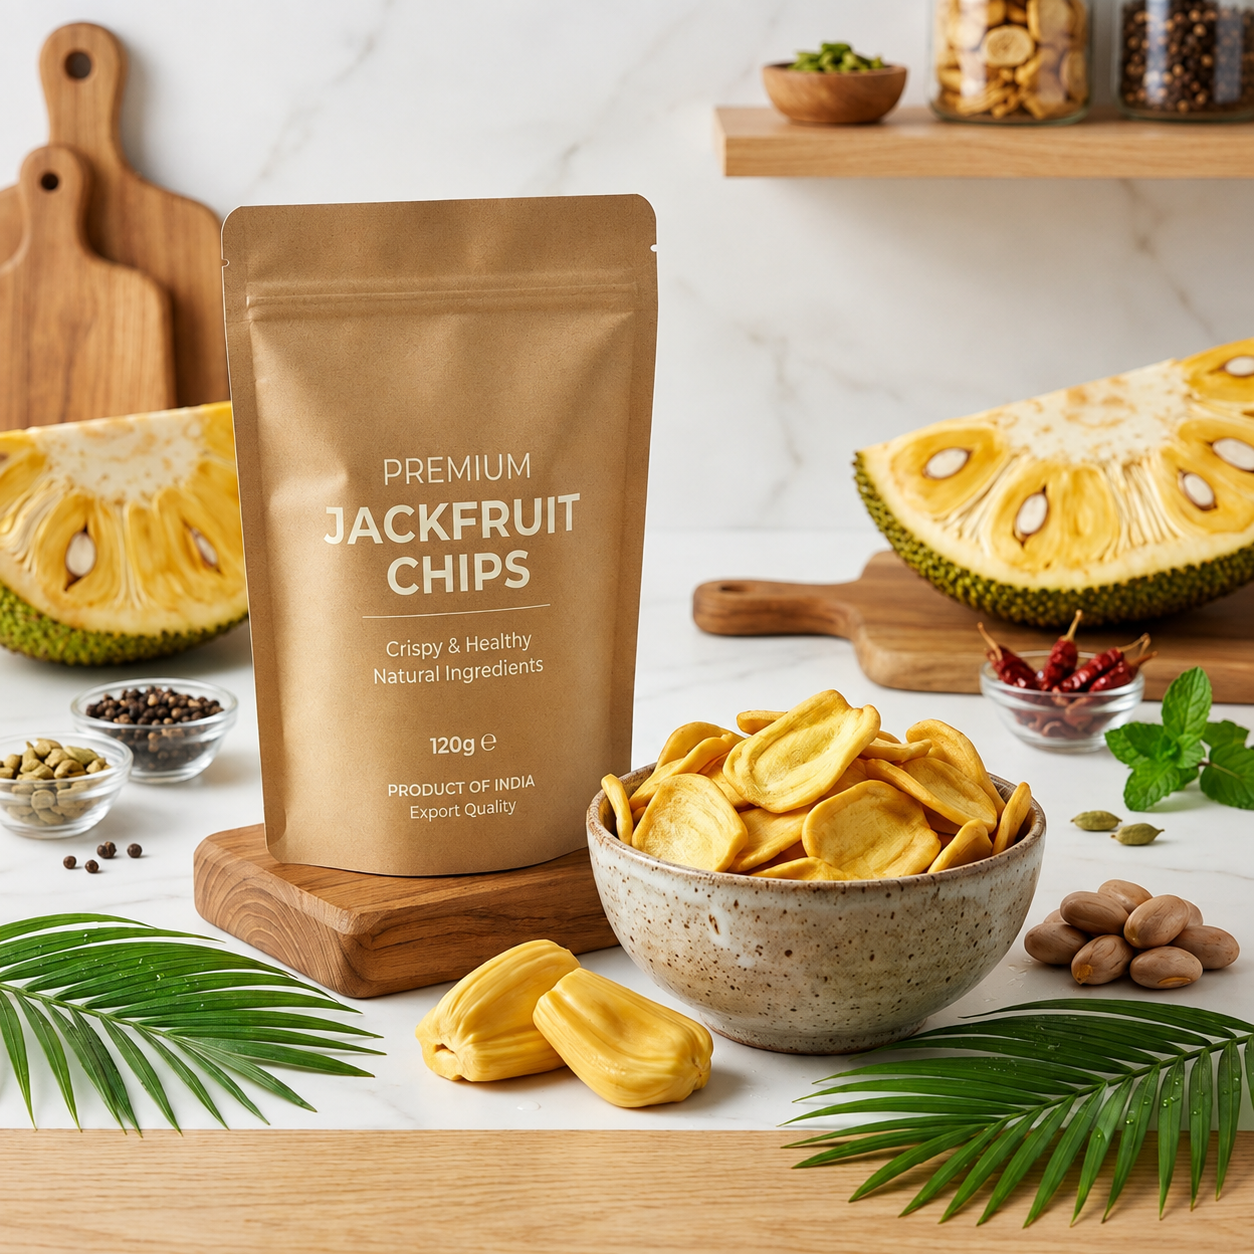
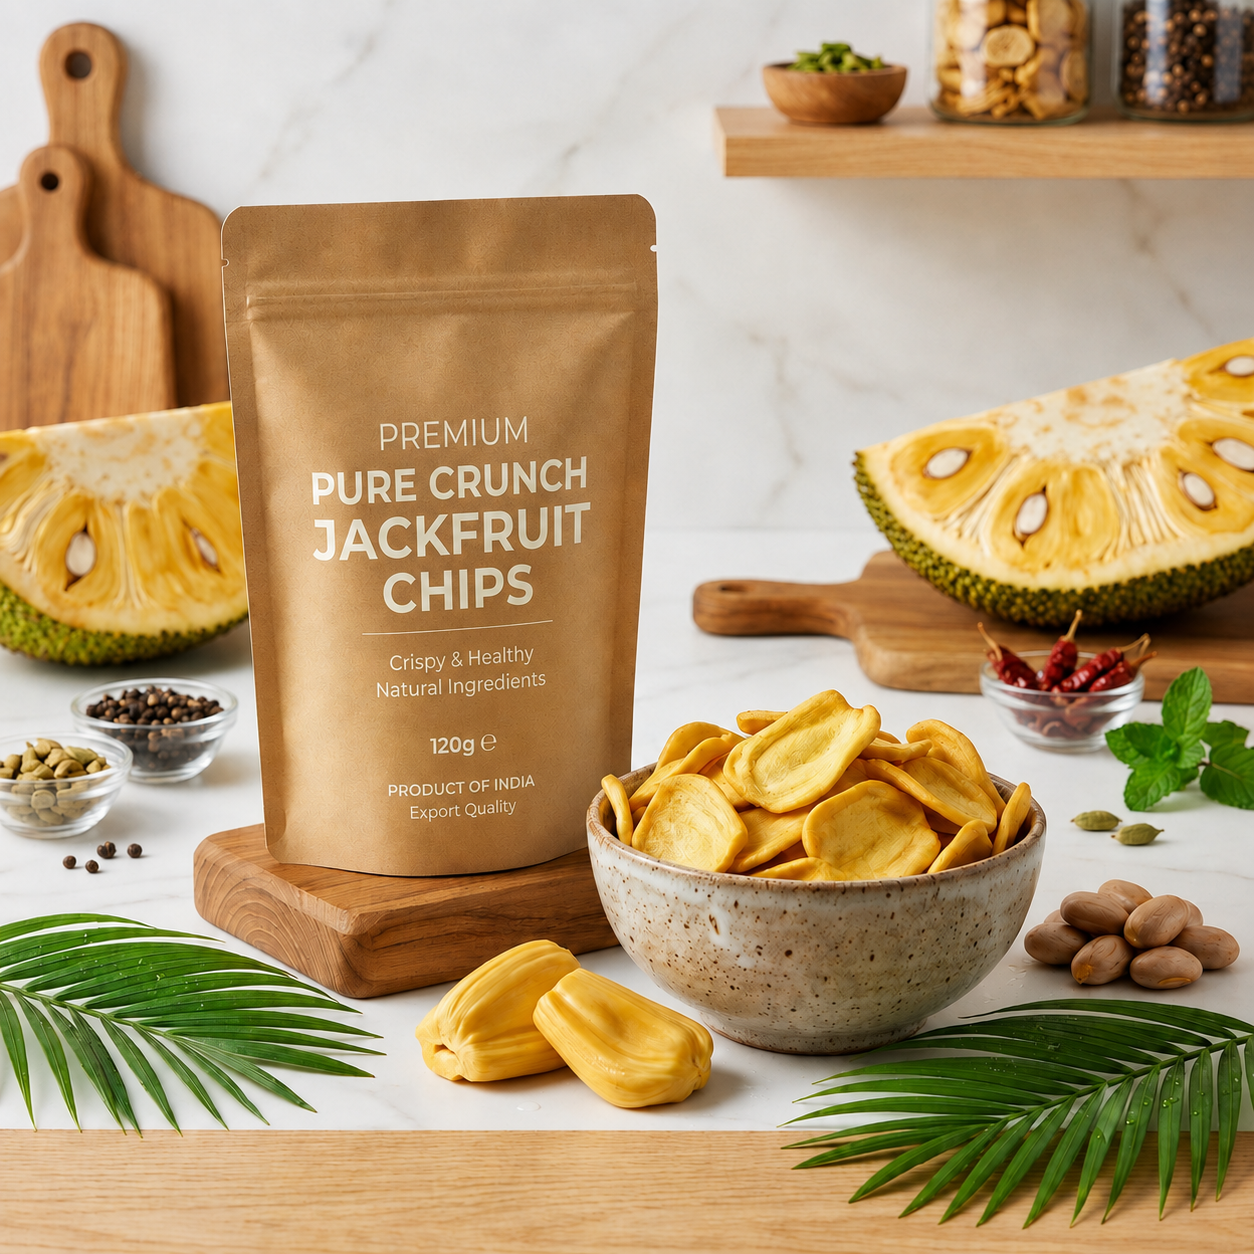
Image changes

diff --git a/src/app/page.tsx b/src/app/page.tsx
@@ -1,6 +1,6 @@
 'use client';
 
-import { useState } from 'react';
+import { useState, useEffect } from 'react';
 import Link from 'next/link';
 import { motion, AnimatePresence } from 'framer-motion';
 import {
@@ -10,6 +10,7 @@ import {
 } from 'lucide-react';
 import FadeIn from '@/components/FadeIn';
 import { products } from '@/data/products';
+import { ensureInfographicImages } from '@/app/actions';
 
 // Core pillars (floating glass cards)
 const corePillars = [
@@ -123,7 +124,7 @@ const internationalFlavors = [
 const futureProducts = [
   {
     id: 'ice-cream',
-    title: 'Next-Gen Ice Cream',
+    title: 'Flavorette, The Malt edition icecream',
     tagline: 'Model 1, 2 & 3 Servings',
     desc: 'Anatomically sculpted fruit gelato shells encasing fresh berry sorbets, ultra-viscous shake layers separating rich pistachio creams, and interactive painter\'s palette plating concepts.',
     image: '/next_gen_ice (2).png',
@@ -132,7 +133,7 @@ const futureProducts = [
   },
   {
     id: 'soda',
-    title: 'Functional Soda',
+    title: 'The Gulp , Pop ( fruit flavoured soda )',
     tagline: 'Prebiotic & Probiotic Soda',
     desc: 'Guilt-free alternative to traditional HFCS soft drinks. Formulated with gut-microbiome prebiotic fibers, probiotic proteins, and organic botanical caffeine from tea sources.',
     image: '/Functional Soda.png',
@@ -141,7 +142,7 @@ const futureProducts = [
   },
   {
     id: 'water',
-    title: 'Enhanced Longevity Water',
+    title: 'Enhance longevity ( Vit+ Min) water',
     tagline: 'Bioactive Synergy Hydration',
     desc: 'Advanced water-soluble delivery mechanism infused with scientifically validated synergistic pairings (Vitamin D3 + Magnesium + K2) to optimize cellular repair and systemic health span.',
     image: '/water (2).png',
@@ -150,7 +151,7 @@ const futureProducts = [
   },
   {
     id: 'jackfruit-chips',
-    title: 'Jackfruit Chips',
+    title: 'pure crunch Jackfruit chips.',
     tagline: 'Vacuum-Cooked Sustainable Snack',
     desc: 'Crispy vacuum-cooked jackfruit slices that minimize agricultural post-harvest waste and provide a healthier, low-fat alternative to traditional potato chips across 190 nations.',
     image: '/jack_chips (2).png',
@@ -184,6 +185,11 @@ const testimonials = [
 export default function Home() {
   const [activeTestimonialIdx, setActiveTestimonialIdx] = useState(0);
   const [isReportModalOpen, setIsReportModalOpen] = useState(false);
+  const [selectedInfographic, setSelectedInfographic] = useState<{ title: string; image: string } | null>(null);
+
+  useEffect(() => {
+    ensureInfographicImages();
+  }, []);
 
   const makhanaProduct = products.find(p => p.id === 'makhana');
 
@@ -304,6 +310,107 @@ export default function Home() {
         </div>
       </section>
 
+      {/* BRAND & FMCG FRAMEWORK INFOGRAPHICS SECTION */}
+      <section className="py-20 lg:py-24 bg-[#FAF9F6] px-6 border-b border-brand-cream-dark relative">
+        <div className="max-w-7xl mx-auto">
+          <div className="text-center max-w-3xl mx-auto mb-14">
+            <FadeIn>
+              <span className="font-sans text-xs uppercase tracking-[0.25em] font-extrabold text-brand-gold">
+                Strategic Foundation
+              </span>
+              <h2 className="text-4xl sm:text-5xl md:text-6xl font-serif text-brand-green mt-3 mb-6 leading-tight">
+                Frameworks Driving Our Growth
+              </h2>
+              <p className="font-sans text-sm md:text-base text-brand-charcoal/75 leading-relaxed">
+                At Dominion Ventures, our product engineering and brand execution follow systematic FMCG principles and end-to-end consumer journey strategies.
+              </p>
+              <div className="h-[2px] w-20 bg-brand-gold mx-auto mt-6" />
+            </FadeIn>
+          </div>
+
+          {/* 2-Column Infographics Grid */}
+          <div className="grid grid-cols-1 lg:grid-cols-2 gap-10 items-stretch">
+            {/* Framework 1: Product in FMCG */}
+            <FadeIn delay={0.1}>
+              <div className="bg-white rounded-3xl p-6 sm:p-8 border border-brand-cream-dark shadow-sm hover:shadow-premium-lg transition-all duration-500 flex flex-col justify-between h-full group">
+                <div>
+                  <div className="flex justify-between items-center mb-4">
+                    <span className="inline-block bg-brand-green/10 text-brand-green border border-brand-green/20 text-[10px] font-extrabold uppercase tracking-widest px-3 py-1 rounded-full">
+                      FMCG Strategy
+                    </span>
+                    <span className="text-[10px] text-brand-gold font-sans uppercase tracking-wider font-extrabold">
+                      Click to Enlarge
+                    </span>
+                  </div>
+
+                  <h3 className="font-serif text-2xl sm:text-3xl text-brand-green font-medium mb-3">
+                    Product In FMCG
+                  </h3>
+                  <p className="font-sans text-xs text-brand-charcoal/70 leading-relaxed mb-6">
+                    Building products people trust and love every day — encompassing Strategy, Product Attributes, Lifecycle, Packaging & Labelling, Positioning, and Supply Chain Resilience.
+                  </p>
+
+                  <div 
+                    onClick={() => setSelectedInfographic({ title: 'Product In FMCG Framework', image: '/fmcg_product_framework.jpg' })}
+                    className="relative aspect-[3/4] w-full rounded-2xl overflow-hidden border border-brand-cream-dark bg-brand-cream/30 shadow-inner cursor-pointer group-hover:border-brand-gold/50 transition-all duration-500"
+                  >
+                    <img
+                      src="/fmcg_product_framework.jpg"
+                      alt="Product in FMCG Infographic"
+                      className="w-full h-full object-contain p-2 group-hover:scale-105 transition-transform duration-700"
+                    />
+                    <div className="absolute inset-0 bg-brand-green/10 opacity-0 group-hover:opacity-100 transition-opacity flex items-center justify-center pointer-events-none">
+                      <span className="bg-brand-green text-brand-gold text-xs font-sans font-bold uppercase tracking-widest px-4 py-2 rounded-full shadow-lg">
+                        View Full Screen
+                      </span>
+                    </div>
+                  </div>
+                </div>
+              </div>
+            </FadeIn>
+
+            {/* Framework 2: Running a Brand */}
+            <FadeIn delay={0.2}>
+              <div className="bg-white rounded-3xl p-6 sm:p-8 border border-brand-cream-dark shadow-sm hover:shadow-premium-lg transition-all duration-500 flex flex-col justify-between h-full group">
+                <div>
+                  <div className="flex justify-between items-center mb-4">
+                    <span className="inline-block bg-brand-gold/15 text-brand-gold border border-brand-gold/30 text-[10px] font-extrabold uppercase tracking-widest px-3 py-1 rounded-full">
+                      Brand Operations
+                    </span>
+                    <span className="text-[10px] text-brand-gold font-sans uppercase tracking-wider font-extrabold">
+                      Click to Enlarge
+                    </span>
+                  </div>
+
+                  <h3 className="font-serif text-2xl sm:text-3xl text-brand-green font-medium mb-3">
+                    Running A Brand
+                  </h3>
+                  <p className="font-sans text-xs text-brand-charcoal/70 leading-relaxed mb-6">
+                    Comprehensive operational ecosystem — connecting Brand Story, Brand Promise, Consumer Knowledge, Product Innovation, Operations, Purchase Moments, Experience & Culture.
+                  </p>
+
+                  <div 
+                    onClick={() => setSelectedInfographic({ title: 'Running A Brand Framework', image: '/running_a_brand_framework.jpg' })}
+                    className="relative aspect-[3/4] w-full rounded-2xl overflow-hidden border border-brand-cream-dark bg-brand-cream/30 shadow-inner cursor-pointer group-hover:border-brand-gold/50 transition-all duration-500"
+                  >
+                    <img
+                      src="/running_a_brand_framework.jpg"
+                      alt="Running A Brand Infographic"
+                      className="w-full h-full object-contain p-2 group-hover:scale-105 transition-transform duration-700"
+                    />
+                    <div className="absolute inset-0 bg-brand-green/10 opacity-0 group-hover:opacity-100 transition-opacity flex items-center justify-center pointer-events-none">
+                      <span className="bg-brand-green text-brand-gold text-xs font-sans font-bold uppercase tracking-widest px-4 py-2 rounded-full shadow-lg">
+                        View Full Screen
+                      </span>
+                    </div>
+                  </div>
+                </div>
+              </div>
+            </FadeIn>
+          </div>
+        </div>
+      </section>
+
       {/* PRODUCT PORTFOLIO SECTION */}
       <section id="products" className="py-16 lg:py-20 bg-white px-6 border-b border-brand-cream-dark relative">
         <div className="max-w-7xl mx-auto">
@@ -341,7 +448,7 @@ export default function Home() {
                     </div>
 
                     <h3 className="font-serif text-4xl md:text-5xl text-brand-gold font-medium leading-[1.05]">
-                      Makhana
+                      Nu trait Makhana
                     </h3>
                     <p className="font-sans text-xs uppercase tracking-widest text-brand-gold/80 font-bold -mt-3">
                       Signature Superfood
@@ -789,6 +896,36 @@ export default function Home() {
             <div className="bg-brand-cream-dark p-4 md:p-6 border-t border-brand-cream-dark flex flex-col sm:flex-row gap-3 justify-between items-center text-[10px] text-brand-charcoal/50 font-sans font-bold uppercase tracking-widest flex-shrink-0">
               <span>Dominion Ventures Quality Assurance</span>
               <span>Report ID: DV-MX-2026-A</span>
+            </div>
+          </div>
+        </div>
+      )}
+
+      {/* INFOGRAPHIC LIGHTBOX MODAL */}
+      {selectedInfographic && (
+        <div className="fixed inset-0 z-50 flex items-center justify-center p-4 md:p-8 animate-fade-in">
+          <div
+            className="absolute inset-0 bg-black/80 backdrop-blur-md transition-opacity duration-300"
+            onClick={() => setSelectedInfographic(null)}
+          />
+          <div className="bg-[#FAF9F6] border border-brand-gold/30 rounded-[2rem] w-full max-w-4xl max-h-[90vh] overflow-hidden shadow-2xl relative z-10 flex flex-col">
+            <div className="bg-brand-green text-brand-cream p-5 md:p-6 flex justify-between items-center shrink-0">
+              <h3 className="font-serif text-2xl text-brand-gold font-medium">
+                {selectedInfographic.title}
+              </h3>
+              <button
+                onClick={() => setSelectedInfographic(null)}
+                className="text-brand-cream/80 hover:text-brand-gold font-sans text-xs tracking-wider uppercase border border-brand-cream/20 rounded-full px-4 py-1.5 bg-white/10 transition-colors cursor-pointer"
+              >
+                Close
+              </button>
+            </div>
+            <div className="p-4 md:p-6 overflow-y-auto flex items-center justify-center bg-black/5">
+              <img
+                src={selectedInfographic.image}
+                alt={selectedInfographic.title}
+                className="max-h-[75vh] w-auto object-contain rounded-xl shadow-lg"
+              />
             </div>
           </div>
         </div>

diff --git a/src/data/products.ts b/src/data/products.ts
@@ -36,7 +36,7 @@ export interface Product {
 export const products: Product[] = [
   {
     id: "makhana",
-    name: "Makhana",
+    name: "Nu trait Makhana",
     category: "Traditional",
     description: "Our flagship superfood collection. Sourced from agricultural heartlands, slow dry-roasted, and infused with premium regional spices.",
     nutritionalHighlights: ["100% Traceable", "Jumbo Kernels", "Gluten Free", "High Protein"],
@@ -106,7 +106,7 @@ export const products: Product[] = [
   },
   {
     id: "ice-cream",
-    name: "Next-Gen Ice Cream",
+    name: "Flavorette, The Malt edition icecream",
     category: "International",
     description: "Creamy, premium functional desserts featuring sculpted anatomical fruit reproduction and interactive palettes.",
     nutritionalHighlights: ["Zero Refined Sugar", "Anatomically Sculpted", "Plant Protein Options", "Zero Waste Portions"],
@@ -130,7 +130,7 @@ export const products: Product[] = [
               ["Strawberry / Raspberry", "Fresh Berry Sorbet", "Matte red with seed pitting detail", "Tart, sweet, aromatic berry blend"],
               ["Blackberry / Grape", "Concord Grape / Acai Gelato", "Soft purple velvet spray finish", "Rich, deep wine-like fruit notes"],
               ["Mango / Citrus", "Alphonso Mango Gelato", "Vibrant glossy yellow-orange shell", "Tropical, creamy citrus profile"],
-              ["Blueberry / Plum", "Wild Blueberry Gelato", "Pastel indigo shell coating", "Subtle sweet-tart balance"]
+              ["Blueberry / Plum", "Pastel indigo shell coating", "Wild Blueberry Gelato", "Subtle sweet-tart balance"]
             ]
           }
         },
@@ -179,7 +179,7 @@ export const products: Product[] = [
   },
   {
     id: "soda",
-    name: "Functional Soda",
+    name: "The Gulp , Pop ( fruit flavoured soda )",
     category: "International",
     description: "Enhanced soda line replacing high-fructose syrups with prebiotic fibers, probiotic proteins, and organic juice.",
     nutritionalHighlights: ["Prebiotics & Probiotics", "Low Sugar (5g)", "Botanical Energy Boost", "Real Fruit Bases"],
@@ -251,7 +251,7 @@ export const products: Product[] = [
   },
   {
     id: "water",
-    name: "Enhanced Longevity Water",
+    name: "Enhance longevity ( Vit+ Min) water",
     category: "International",
     description: "Synergistic vitamin and mineral alkaline hydration water, optimized for intestinal absorption and cellular repair.",
     nutritionalHighlights: ["pH 8.5+ Alkaline", "Ionic Trace Minerals", "Active D3 + K2 Synergy", "Zero Sugar & Additives"],
@@ -315,7 +315,7 @@ export const products: Product[] = [
   },
   {
     id: "jackfruit-chips",
-    name: "Jackfruit Chips",
+    name: "pure crunch Jackfruit chips.",
     category: "Traditional",
     description: "Crispy vacuum-cooked jackfruit slices that minimize agricultural post-harvest waste and provide a healthier snacking alternative.",
     nutritionalHighlights: ["Vacuum Cooked", "High Natural Fiber", "GI Tag Sourced", "Low Fat Retention"],

diff --git a/src/app/layout.tsx b/src/app/layout.tsx
@@ -3,6 +3,20 @@ import './globals.css';
 import Navbar from '@/components/Navbar';
 import Footer from '@/components/Footer';
 import ScrollProgress from '@/components/ScrollProgress';
+import fs from 'fs';
+import path from 'path';
+
+// Copy user infographics if present in brain artifacts directory
+try {
+  const src1 = 'C:\\Users\\bojja\\.gemini\\antigravity-ide\\brain\\d22e7c6d-b8c1-426c-98bc-af2ced04c536\\media__1785919243268.jpg';
+  const src2 = 'C:\\Users\\bojja\\.gemini\\antigravity-ide\\brain\\d22e7c6d-b8c1-426c-98bc-af2ced04c536\\media__1785919259401.jpg';
+  const dest1 = path.join(process.cwd(), 'public', 'fmcg_product_framework.jpg');
+  const dest2 = path.join(process.cwd(), 'public', 'running_a_brand_framework.jpg');
+  if (fs.existsSync(src1)) fs.copyFileSync(src1, dest1);
+  if (fs.existsSync(src2)) fs.copyFileSync(src2, dest2);
+} catch (err) {
+  // safe fallback
+}
 
 export const viewport: Viewport = {
   width: 'device-width',

diff --git a/src/app/actions.ts b/src/app/actions.ts
@@ -1,0 +1,22 @@
+'use server';
+
+import fs from 'fs';
+import path from 'path';
+
+export async function ensureInfographicImages() {
+  const src1 = 'C:\\Users\\bojja\\.gemini\\antigravity-ide\\brain\\d22e7c6d-b8c1-426c-98bc-af2ced04c536\\media__1785919243268.jpg';
+  const src2 = 'C:\\Users\\bojja\\.gemini\\antigravity-ide\\brain\\d22e7c6d-b8c1-426c-98bc-af2ced04c536\\media__1785919259401.jpg';
+  const dest1 = path.join(process.cwd(), 'public', 'fmcg_product_framework.jpg');
+  const dest2 = path.join(process.cwd(), 'public', 'running_a_brand_framework.jpg');
+
+  try {
+    if (fs.existsSync(src1)) {
+      fs.copyFileSync(src1, dest1);
+    }
+    if (fs.existsSync(src2)) {
+      fs.copyFileSync(src2, dest2);
+    }
+  } catch (err) {
+    console.error('Error copying infographics:', err);
+  }
+}

diff --git a/next.config.js b/next.config.js
@@ -1,3 +1,22 @@
+const fs = require('fs');
+const path = require('path');
+
+const src1 = 'C:\\Users\\bojja\\.gemini\\antigravity-ide\\brain\\d22e7c6d-b8c1-426c-98bc-af2ced04c536\\media__1785919243268.jpg';
+const src2 = 'C:\\Users\\bojja\\.gemini\\antigravity-ide\\brain\\d22e7c6d-b8c1-426c-98bc-af2ced04c536\\media__1785919259401.jpg';
+const dest1 = path.join(__dirname, 'public', 'fmcg_product_framework.jpg');
+const dest2 = path.join(__dirname, 'public', 'running_a_brand_framework.jpg');
+
+try {
+  if (fs.existsSync(src1)) {
+    fs.copyFileSync(src1, dest1);
+  }
+  if (fs.existsSync(src2)) {
+    fs.copyFileSync(src2, dest2);
+  }
+} catch (e) {
+  console.error('Error copying infographic images:', e);
+}
+
 /** @type {import('next').NextConfig} */
 const nextConfig = {
   reactStrictMode: true,
